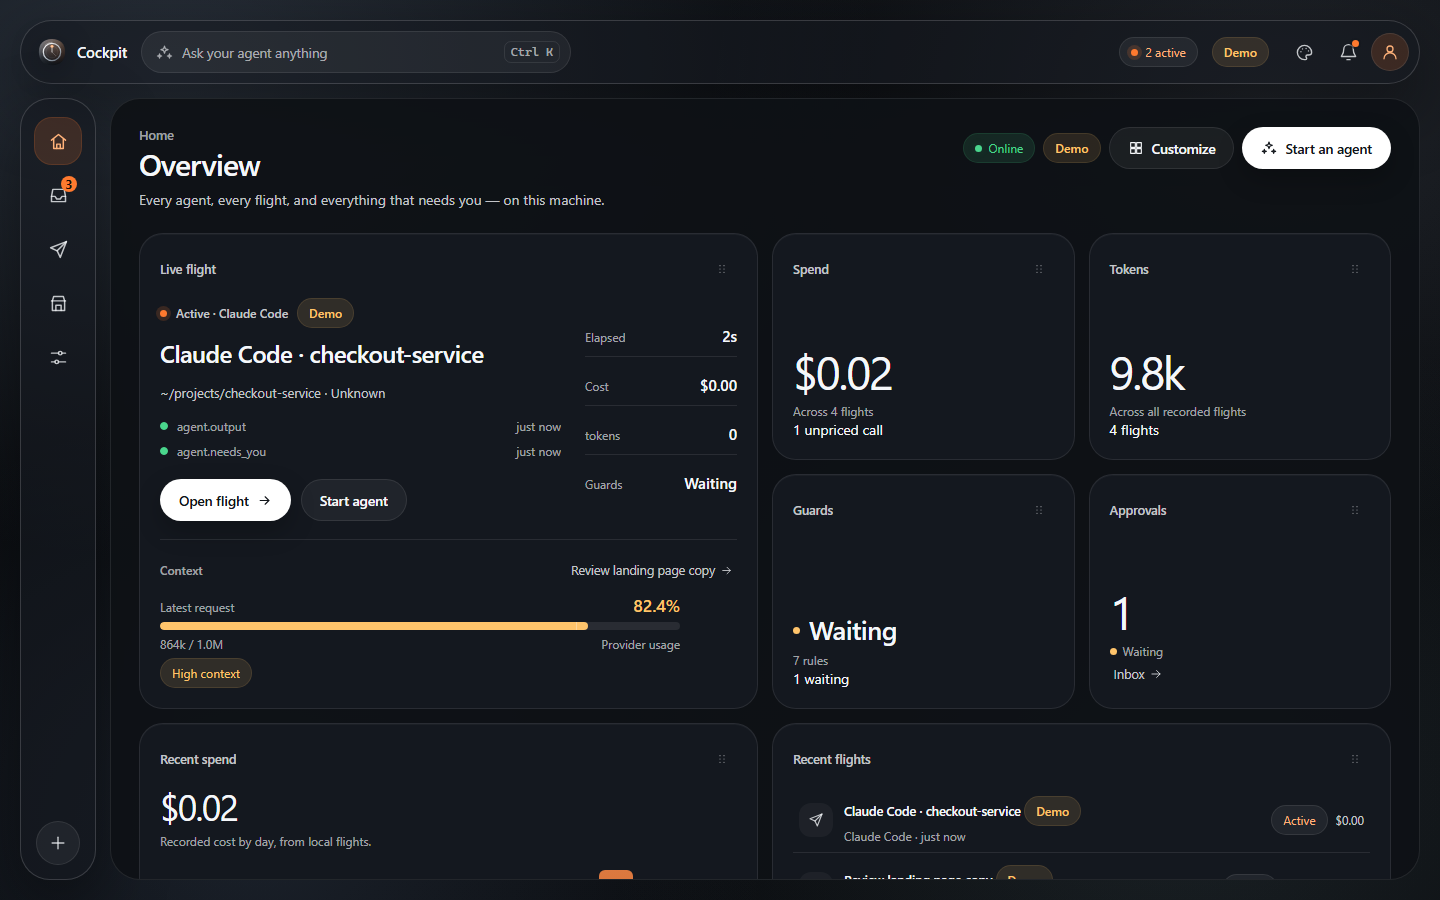
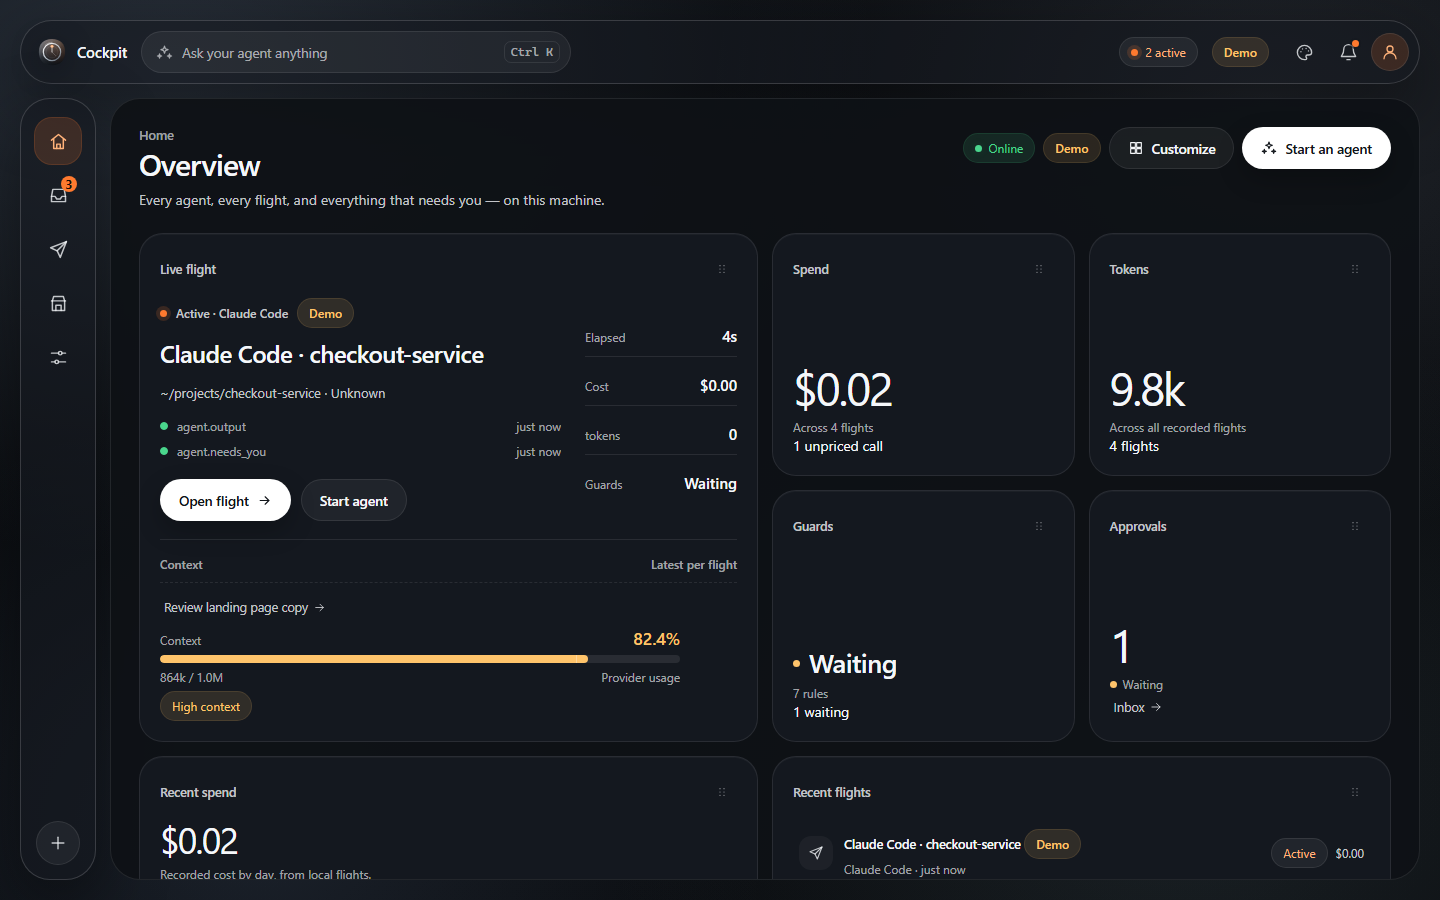
fix: label each Home context meter with its flight

diff --git a/ui/src/lib/HomePreview.svelte b/ui/src/lib/HomePreview.svelte
@@ -49,12 +49,19 @@
   const active = $derived(activeSessions());
   const live = $derived(active[0] ?? null);
   const contexts = $derived(daemonState.overview?.contexts ?? {});
-  // Prefer the live flight's own meter. A PTY flight records no proxy context,
-  // so fall back to the newest active flight that does.
-  const contextSession = $derived(
-    live && contexts[live.id] ? live : (active.find((session) => contexts[session.id]) ?? null),
-  );
-  const liveContext = $derived(contextSession ? (contexts[contextSession.id] ?? null) : null);
+  // One meter per flight, each labeled with its own flight title. The live
+  // flight comes first when it has a meter; a PTY flight records no proxy
+  // context, so other active flights keep their own labeled meters instead of
+  // being presented as the live flight's meter.
+  const contextFlights = $derived.by(() => {
+    const entries = active.flatMap((session) => {
+      const meter = contexts[session.id];
+      return meter ? [{ session, meter }] : [];
+    });
+    const liveEntry = live ? entries.find((entry) => entry.session.id === live.id) : undefined;
+    if (!liveEntry) return entries;
+    return [liveEntry, ...entries.filter((entry) => entry.session.id !== live.id)];
+  });
   const pending = $derived(pendingGuards());
   const rules = $derived(daemonState.rules);
   const adapters = $derived(daemonState.adapters);
@@ -409,20 +416,30 @@
                 </div>
               </div>
             </div>
-            {#if liveContext && contextSession}
+            {#if contextFlights.length > 0}
               <div class="live-context" data-live-context>
                 <div class="live-context__head">
                   <span>{t('context.title')}</span>
-                  <button
-                    class="text-link"
-                    type="button"
-                    onclick={() => openSession(contextSession)}
-                  >
-                    {contextSession.id === live.id ? t('context.latest') : contextSession.title}
-                    <Icon name="arrow-right" size={13} />
-                  </button>
+                  <span class="live-context__hint">{t('context.perFlight')}</span>
                 </div>
-                <ContextMeter meter={liveContext} label={t('context.latest')} compact />
+                {#each contextFlights as entry (entry.session.id)}
+                  <div class="live-context__entry" data-context-flight={entry.session.id}>
+                    <div class="live-context__head">
+                      <button
+                        class="text-link"
+                        type="button"
+                        onclick={() => openSession(entry.session)}
+                      >
+                        {entry.session.title}
+                        <Icon name="arrow-right" size={13} />
+                      </button>
+                      {#if entry.session.id === live.id}
+                        <span class="status-pill status-pill--live">{t('context.thisFlight')}</span>
+                      {/if}
+                    </div>
+                    <ContextMeter meter={entry.meter} compact />
+                  </div>
+                {/each}
               </div>
             {/if}
           {:else}

diff --git a/ui/tests/e2e/phase9.spec.ts b/ui/tests/e2e/phase9.spec.ts
@@ -38,7 +38,17 @@ test.describe('model, effort, and context', () => {
     await open(page, '/');
     await expect(page.locator('.preview-note')).toContainText('Synced', { timeout: 15_000 });
 
-    const meter = page.locator('.live-context [data-context-meter]');
+    // Each meter carries its own flight title. The live PTY flight has no
+    // proxy context, so the proxy flight keeps a separate labeled meter rather
+    // than being presented as the live flight's meter.
+    const contextSection = page.locator('[data-live-context]');
+    await expect(contextSection).toContainText('Latest per flight');
+    const reviewEntry = contextSection
+      .locator('[data-context-flight]')
+      .filter({ hasText: 'Review landing page copy' });
+    await expect(reviewEntry).toBeVisible();
+
+    const meter = reviewEntry.locator('[data-context-meter]');
     await expect(meter).toBeVisible();
     await expect(meter).toHaveAttribute('data-context-percent', '82.4');
     await expect(meter).toHaveAttribute('data-context-high', 'true');

diff --git a/ui/src/app.css b/ui/src/app.css
@@ -1600,6 +1600,27 @@ pre {
   font-weight: 560;
 }
 
+.live-context__hint {
+  text-align: right;
+}
+
+.live-context__entry {
+  display: flex;
+  flex-direction: column;
+  gap: 6px;
+  padding-top: 10px;
+  border-top: 1px dashed var(--hairline);
+}
+
+.live-context__entry:first-of-type {
+  padding-top: 0;
+  border-top: 0;
+}
+
+.live-context__entry .live-context__head {
+  justify-content: flex-start;
+}
+
 .live-context .context-meter {
   max-width: 520px;
 }

diff --git a/ui/src/lib/i18n/catalog.ts b/ui/src/lib/i18n/catalog.ts
@@ -192,6 +192,8 @@ const en = {
   'context.files': 'Files',
   'context.other': 'Other',
   'context.latest': 'Latest request',
+  'context.perFlight': 'Latest per flight',
+  'context.thisFlight': 'This flight',
   'model.title': 'Model & effort',
   'model.current': 'Current',
   'model.effort': 'Effort',
